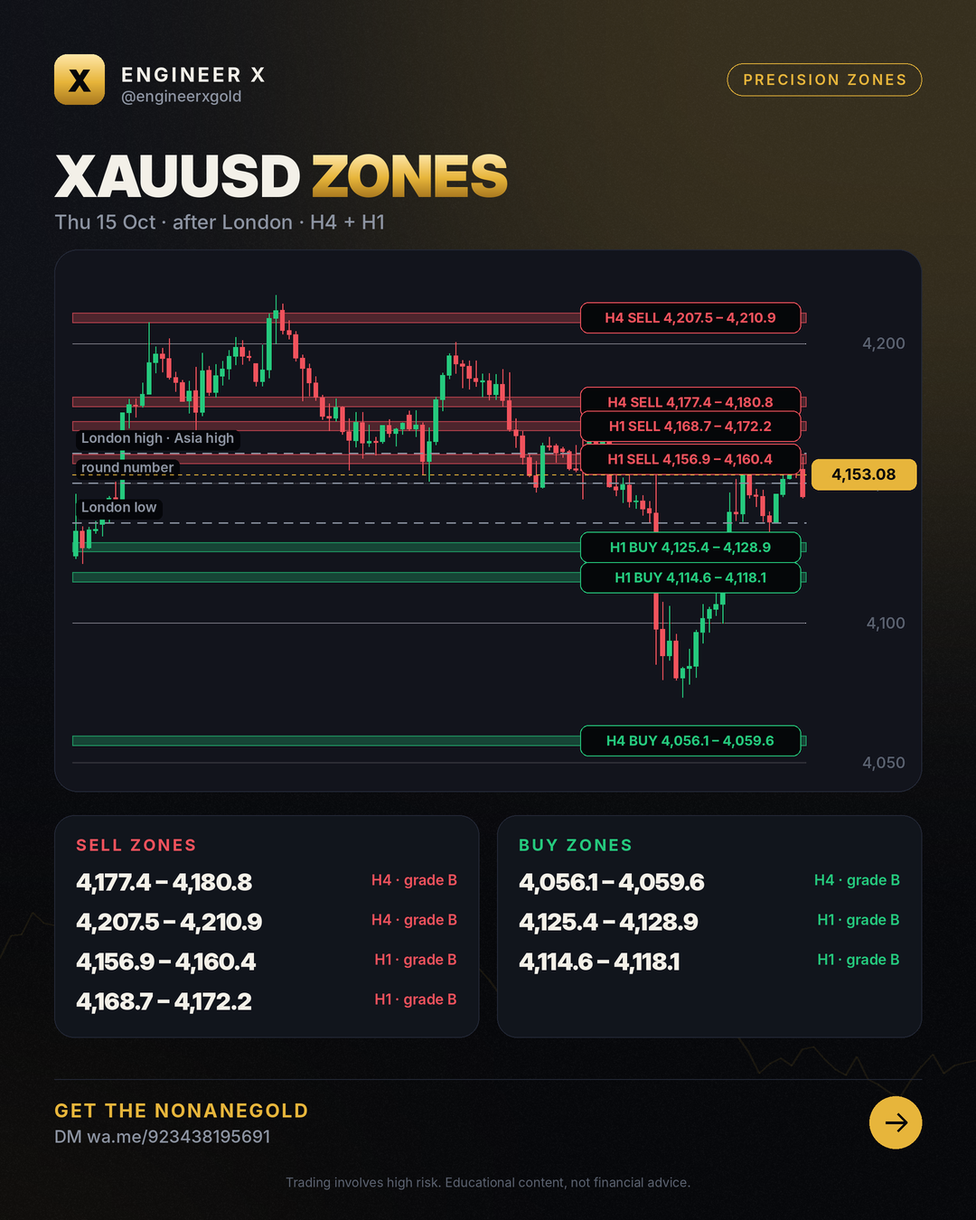
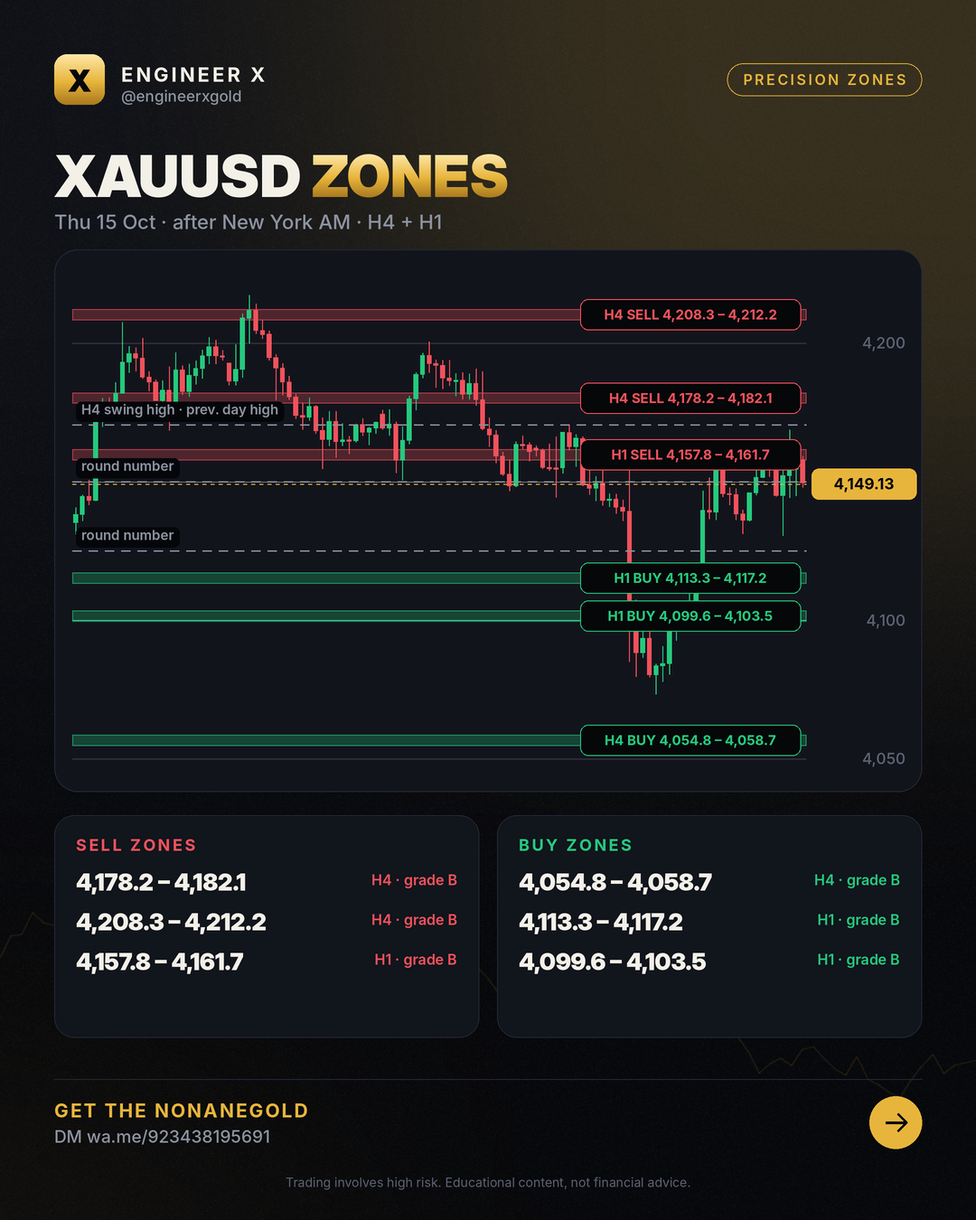
zones 2026-10-15 Thu 15 Oct · after New York AM · H4 + H1

diff --git a/zones/2026-10-15/index.html b/zones/2026-10-15/index.html
@@ -4,7 +4,7 @@
 <meta charset="utf-8">
 <meta name="viewport" content="width=device-width,initial-scale=1">
 <title>Gold Price Today – 15 Oct 2026 (H4 + H1)</title>
-<meta name="description" content="XAUUSD buy and sell zones for 2026-10-15: narrow H4 and H1 bands with invalidation levels, updated after the Asian, London and New York sessions. Price 4,153.08.">
+<meta name="description" content="XAUUSD buy and sell zones for 2026-10-15: narrow H4 and H1 bands with invalidation levels, updated after the Asian, London and New York sessions. Price 4,149.13.">
 <meta name="robots" content="index,follow,max-image-preview:large,max-snippet:-1,max-video-preview:-1">
 <meta name="author" content="Engr. M Ahmad Mehmood">
 <link rel="canonical" href="https://engineerxgold.github.io/zones/2026-10-15/">
@@ -12,7 +12,7 @@
 <link rel="apple-touch-icon" href="../../img/logo.png">
 <meta property="og:site_name" content="Engineer X">
 <meta property="og:title" content="Gold Price Today – 15 Oct 2026 (H4 + H1)">
-<meta property="og:description" content="XAUUSD buy and sell zones for 2026-10-15: narrow H4 and H1 bands with invalidation levels, updated after the Asian, London and New York sessions. Price 4,153.08.">
+<meta property="og:description" content="XAUUSD buy and sell zones for 2026-10-15: narrow H4 and H1 bands with invalidation levels, updated after the Asian, London and New York sessions. Price 4,149.13.">
 <meta property="og:type" content="article">
 <meta property="og:url" content="https://engineerxgold.github.io/zones/2026-10-15/">
 <meta property="og:image" content="https://engineerxgold.github.io/zones/img/2026-10-15.png">
@@ -22,7 +22,7 @@
 <meta property="og:locale" content="en_US">
 <meta name="twitter:card" content="summary_large_image">
 <meta name="twitter:title" content="Gold Price Today – 15 Oct 2026 (H4 + H1)">
-<meta name="twitter:description" content="XAUUSD buy and sell zones for 2026-10-15: narrow H4 and H1 bands with invalidation levels, updated after the Asian, London and New York sessions. Price 4,153.08.">
+<meta name="twitter:description" content="XAUUSD buy and sell zones for 2026-10-15: narrow H4 and H1 bands with invalidation levels, updated after the Asian, London and New York sessions. Price 4,149.13.">
 <meta name="twitter:image" content="https://engineerxgold.github.io/zones/img/2026-10-15.png">
 <meta name="twitter:image:alt" content="Gold Price Today – 15 Oct 2026 (H4 + H1)">
 
@@ -32,7 +32,7 @@
 <link rel="preconnect" href="https://fonts.googleapis.com">
 <link rel="preconnect" href="https://fonts.gstatic.com" crossorigin>
 <link href="https://fonts.googleapis.com/css2?family=Inter:wght@400;500;600;800;900&display=swap" rel="stylesheet">
-<script type="application/ld+json">{"@context": "https://schema.org", "@type": "Organization", "@id": "https://engineerxgold.github.io/#organization", "name": "Engineer X", "url": "https://engineerxgold.github.io/", "logo": {"@type": "ImageObject", "url": "https://engineerxgold.github.io/img/logo.png", "width": 512, "height": 512}, "sameAs": ["https://t.me/engineerxgold"]}</script><script type="application/ld+json">{"@context": "https://schema.org", "@type": "Article", "headline": "Gold Price Today – 15 Oct 2026 (H4 + H1)", "datePublished": "2026-10-15T08:00:00+05:00", "dateModified": "2026-10-15T17:25:45+05:00", "author": {"@type": "Person", "@id": "https://engineerxgold.github.io/about/#author", "name": "Engr. M Ahmad Mehmood", "url": "https://engineerxgold.github.io/about/", "jobTitle": "MQL5 Expert Advisor developer and gold market analyst", "worksFor": {"@id": "https://engineerxgold.github.io/#organization"}}, "publisher": {"@id": "https://engineerxgold.github.io/#organization"}, "image": "https://engineerxgold.github.io/zones/img/2026-10-15.png", "mainEntityOfPage": "https://engineerxgold.github.io/zones/2026-10-15/"}</script>
+<script type="application/ld+json">{"@context": "https://schema.org", "@type": "Organization", "@id": "https://engineerxgold.github.io/#organization", "name": "Engineer X", "url": "https://engineerxgold.github.io/", "logo": {"@type": "ImageObject", "url": "https://engineerxgold.github.io/img/logo.png", "width": 512, "height": 512}, "sameAs": ["https://t.me/engineerxgold"]}</script><script type="application/ld+json">{"@context": "https://schema.org", "@type": "Article", "headline": "Gold Price Today – 15 Oct 2026 (H4 + H1)", "datePublished": "2026-10-15T08:00:00+05:00", "dateModified": "2026-10-15T21:02:53+05:00", "author": {"@type": "Person", "@id": "https://engineerxgold.github.io/about/#author", "name": "Engr. M Ahmad Mehmood", "url": "https://engineerxgold.github.io/about/", "jobTitle": "MQL5 Expert Advisor developer and gold market analyst", "worksFor": {"@id": "https://engineerxgold.github.io/#organization"}}, "publisher": {"@id": "https://engineerxgold.github.io/#organization"}, "image": "https://engineerxgold.github.io/zones/img/2026-10-15.png", "mainEntityOfPage": "https://engineerxgold.github.io/zones/2026-10-15/"}</script>
 
 <style>
 :root{--gold:#E7B53B;--gold-hi:#FFE7A8;--bg:#07080B;--bg2:#0E1016;--panel:#12151D;--line:#232836;--green:#25C97D;--red:#F0525C;--text:#F3F0E8;--muted:#8C93A1}
@@ -101,7 +101,7 @@ footer .fl a{color:var(--muted);margin-right:16px}
 <div class="wrap">
 <nav><a class="logo" href="../../"><b>X</b>Engineer X</a>
 <div class="links"><a href="../../zones/">Daily Zones</a><a href="../../blog/">Learn</a><a href="../../ea/">Gold EA</a><a href="../../about/">About</a><a class="cta" href="https://wa.me/923438195691">Get the EA</a></div></nav>
-<article><p class="crumbs"><a href="../../">Home</a> › <a href="../">Zones</a> › 2026-10-15</p><h1>Gold Price Today – 15 Oct 2026 (H4 + H1)</h1><p class="byline">Thu 15 Oct · after London · H4 + H1 · by Engr. M Ahmad Mehmood</p><img src="../img/2026-10-15.png" alt="XAUUSD zone map 2026-10-15" width="1080" height="1350" loading="eager"><h2>Zones</h2><div style="overflow-x:auto"><table style="width:100%;border-collapse:collapse;font-size:15px"><tr><th align=left>Zone</th><th align=left>Price band</th><th>Grade</th><th align=left>Invalid</th><th align=left>Why</th></tr><tr><td>H4 sell</td><td><b>4,177.37 – 4,180.84</b></td><td>B</td><td>above 4,187.77</td><td>beyond previous day high + H4 swing high (stops rest there; sweeps often end here)</td></tr><tr><td>H4 sell</td><td><b>4,207.46 – 4,210.93</b></td><td>B</td><td>above 4,217.86</td><td>beyond H4 swing high (stops rest there; sweeps often end here)</td></tr><tr><td>H1 sell</td><td><b>4,156.93 – 4,160.40</b></td><td>B</td><td>above 4,167.33</td><td>beyond round number (stops rest there; sweeps often end here)</td></tr><tr><td>H1 sell</td><td><b>4,168.71 – 4,172.18</b></td><td>B</td><td>above 4,179.11</td><td>beyond Asia high + London high (stops rest there; sweeps often end here)</td></tr><tr><td>H1 buy</td><td><b>4,125.38 – 4,128.85</b></td><td>B</td><td>below 4,118.45</td><td>beyond London low (stops rest there; sweeps often end here)</td></tr><tr><td>H1 buy</td><td><b>4,114.60 – 4,118.07</b></td><td>B</td><td>below 4,107.67</td><td>beyond round number (stops rest there; sweeps often end here)</td></tr><tr><td>H4 buy</td><td><b>4,056.08 – 4,059.55</b></td><td>B</td><td>below 4,049.15</td><td>beyond H4 swing low + previous day low + yesterday&#x27;s New York low (stops rest there; sweeps often end here)</td></tr></table></div><h2>How to read this map</h2><p>Bands are where price is expected to react; they are not entries. An hourly close beyond the invalidation price ends the zone. Obvious highs and lows (listed as liquidity) are often swept first, so our zones sit just beyond them.</p><div class="ctabox"><h3>🤖 Trade the zones with the NonaneGold</h3><p>Free signals group access + setup help Message us and we will help you set it up.</p><div class="btns"><a class="btn gold" href="https://wa.me/923438195691">Get the EA on Telegram</a><a class="btn ghost" href="../../ea/">About the EA</a></div></div></article>
+<article><p class="crumbs"><a href="../../">Home</a> › <a href="../">Zones</a> › 2026-10-15</p><h1>Gold Price Today – 15 Oct 2026 (H4 + H1)</h1><p class="byline">Thu 15 Oct · after New York AM · H4 + H1 · by Engr. M Ahmad Mehmood</p><img src="../img/2026-10-15.png" alt="XAUUSD zone map 2026-10-15" width="1080" height="1350" loading="eager"><h2>Zones</h2><div style="overflow-x:auto"><table style="width:100%;border-collapse:collapse;font-size:15px"><tr><th align=left>Zone</th><th align=left>Price band</th><th>Grade</th><th align=left>Invalid</th><th align=left>Why</th></tr><tr><td>H4 sell</td><td><b>4,178.24 – 4,182.14</b></td><td>B</td><td>above 4,189.93</td><td>beyond H4 swing high + previous day high (stops rest there; sweeps often end here)</td></tr><tr><td>H4 sell</td><td><b>4,208.33 – 4,212.23</b></td><td>B</td><td>above 4,220.02</td><td>beyond H4 swing high (stops rest there; sweeps often end here)</td></tr><tr><td>H1 sell</td><td><b>4,157.80 – 4,161.70</b></td><td>B</td><td>above 4,169.49</td><td>beyond round number (stops rest there; sweeps often end here)</td></tr><tr><td>H1 buy</td><td><b>4,113.30 – 4,117.20</b></td><td>B</td><td>below 4,105.51</td><td>beyond round number (stops rest there; sweeps often end here)</td></tr><tr><td>H1 buy</td><td><b>4,099.59 – 4,103.49</b></td><td>B</td><td>below 4,091.80</td><td>beyond Asia low (stops rest there; sweeps often end here)</td></tr><tr><td>H4 buy</td><td><b>4,054.78 – 4,058.68</b></td><td>B</td><td>below 4,046.99</td><td>beyond H4 swing low + yesterday&#x27;s New York low + previous day low (stops rest there; sweeps often end here)</td></tr></table></div><h2>How to read this map</h2><p>Bands are where price is expected to react; they are not entries. An hourly close beyond the invalidation price ends the zone. Obvious highs and lows (listed as liquidity) are often swept first, so our zones sit just beyond them.</p><div class="ctabox"><h3>🤖 Trade the zones with the NonaneGold</h3><p>Free signals group access + setup help Message us and we will help you set it up.</p><div class="btns"><a class="btn gold" href="https://wa.me/923438195691">Get the EA on Telegram</a><a class="btn ghost" href="../../ea/">About the EA</a></div></div></article>
 <footer>
 <div class="warn"><b>Risk warning:</b> Trading gold, forex and CFDs carries a high risk of losing money and is not suitable for everyone. Past results do not guarantee future results. Everything on this site is educational and not financial advice. We are an introducing partner of our broker and may earn a commission on accounts opened through our link.</div>
 <p class="fl" style="margin-top:18px"><a href="../../about/">About &amp; methodology</a><a href="../../privacy.html">Privacy</a><a href="../../terms.html">Terms &amp; risk disclosure</a><a href="../../feed.xml">RSS</a><a href="https://t.me/engineerxgold">Telegram</a></p>

diff --git a/zones/index.html b/zones/index.html
@@ -4,7 +4,7 @@
 <meta charset="utf-8">
 <meta name="viewport" content="width=device-width,initial-scale=1">
 <title>XAUUSD Zones Today – Buy &amp; Sell Zones (H4, H1) | Engineer X</title>
-<meta name="description" content="XAUUSD buy and sell zones for 2026-10-15: narrow H4 and H1 bands with invalidation levels, updated after the Asian, London and New York sessions. Price 4,153.08.">
+<meta name="description" content="XAUUSD buy and sell zones for 2026-10-15: narrow H4 and H1 bands with invalidation levels, updated after the Asian, London and New York sessions. Price 4,149.13.">
 <meta name="robots" content="index,follow,max-image-preview:large,max-snippet:-1,max-video-preview:-1">
 <meta name="author" content="Engr. M Ahmad Mehmood">
 <link rel="canonical" href="https://engineerxgold.github.io/zones/">
@@ -12,7 +12,7 @@
 <link rel="apple-touch-icon" href="../img/logo.png">
 <meta property="og:site_name" content="Engineer X">
 <meta property="og:title" content="XAUUSD Zones Today – Buy &amp; Sell Zones (H4, H1) | Engineer X">
-<meta property="og:description" content="XAUUSD buy and sell zones for 2026-10-15: narrow H4 and H1 bands with invalidation levels, updated after the Asian, London and New York sessions. Price 4,153.08.">
+<meta property="og:description" content="XAUUSD buy and sell zones for 2026-10-15: narrow H4 and H1 bands with invalidation levels, updated after the Asian, London and New York sessions. Price 4,149.13.">
 <meta property="og:type" content="website">
 <meta property="og:url" content="https://engineerxgold.github.io/zones/">
 <meta property="og:image" content="https://engineerxgold.github.io/zones/img/2026-10-15.png">
@@ -22,7 +22,7 @@
 <meta property="og:locale" content="en_US">
 <meta name="twitter:card" content="summary_large_image">
 <meta name="twitter:title" content="XAUUSD Zones Today – Buy &amp; Sell Zones (H4, H1) | Engineer X">
-<meta name="twitter:description" content="XAUUSD buy and sell zones for 2026-10-15: narrow H4 and H1 bands with invalidation levels, updated after the Asian, London and New York sessions. Price 4,153.08.">
+<meta name="twitter:description" content="XAUUSD buy and sell zones for 2026-10-15: narrow H4 and H1 bands with invalidation levels, updated after the Asian, London and New York sessions. Price 4,149.13.">
 <meta name="twitter:image" content="https://engineerxgold.github.io/zones/img/2026-10-15.png">
 <meta name="twitter:image:alt" content="XAUUSD Zones Today – Buy &amp; Sell Zones (H4, H1) | Engineer X">
 
@@ -101,7 +101,7 @@ footer .fl a{color:var(--muted);margin-right:16px}
 <div class="wrap">
 <nav><a class="logo" href="../"><b>X</b>Engineer X</a>
 <div class="links"><a href="../zones/">Daily Zones</a><a href="../blog/">Learn</a><a href="../ea/">Gold EA</a><a href="../about/">About</a><a class="cta" href="https://wa.me/923438195691">Get the EA</a></div></nav>
-<section class="hero"><span class="chip">Updated Thu 15 Oct · after London · H4 + H1</span><h1>XAUUSD <span class="gold">precision zones</span></h1><p>XAUUSD buy and sell zones for 2026-10-15: narrow H4 and H1 bands with invalidation levels, updated after the Asian, London and New York sessions. Price 4,153.08.</p></section><img src="img/2026-10-15.png" alt="Latest XAUUSD zone map" width="1080" height="1350"><section><h2>Current zones</h2><div style="overflow-x:auto"><table style="width:100%;border-collapse:collapse;font-size:15px"><tr><th align=left>Zone</th><th align=left>Price band</th><th>Grade</th><th align=left>Invalid</th><th align=left>Why</th></tr><tr><td>H4 sell</td><td><b>4,177.37 – 4,180.84</b></td><td>B</td><td>above 4,187.77</td><td>beyond previous day high + H4 swing high (stops rest there; sweeps often end here)</td></tr><tr><td>H4 sell</td><td><b>4,207.46 – 4,210.93</b></td><td>B</td><td>above 4,217.86</td><td>beyond H4 swing high (stops rest there; sweeps often end here)</td></tr><tr><td>H1 sell</td><td><b>4,156.93 – 4,160.40</b></td><td>B</td><td>above 4,167.33</td><td>beyond round number (stops rest there; sweeps often end here)</td></tr><tr><td>H1 sell</td><td><b>4,168.71 – 4,172.18</b></td><td>B</td><td>above 4,179.11</td><td>beyond Asia high + London high (stops rest there; sweeps often end here)</td></tr><tr><td>H1 buy</td><td><b>4,125.38 – 4,128.85</b></td><td>B</td><td>below 4,118.45</td><td>beyond London low (stops rest there; sweeps often end here)</td></tr><tr><td>H1 buy</td><td><b>4,114.60 – 4,118.07</b></td><td>B</td><td>below 4,107.67</td><td>beyond round number (stops rest there; sweeps often end here)</td></tr><tr><td>H4 buy</td><td><b>4,056.08 – 4,059.55</b></td><td>B</td><td>below 4,049.15</td><td>beyond H4 swing low + previous day low + yesterday&#x27;s New York low (stops rest there; sweeps often end here)</td></tr></table></div></section><section><h2>Honest scorecard</h2><div class="grid"><div class="card"><div class="n">60</div><p>zones published (30 days)</p></div><div class="card"><div class="n">17</div><p>held (moved 1 hourly ATR away)</p></div><div class="card"><div class="n">2</div><p>broke (hourly close beyond invalidation)</p></div><div class="card"><div class="n">89%</div><p>hold rate of decided zones</p></div></div></section><div class="ctabox"><h3>🤖 Trade the zones with the NonaneGold</h3><p>Free signals group access + setup help Message us and we will help you set it up.</p><div class="btns"><a class="btn gold" href="https://wa.me/923438195691">Get the EA on Telegram</a><a class="btn ghost" href="../ea/">About the EA</a></div></div><section><h2>Archive</h2><div class="grid posts"><a class="card" href="2026-10-15/"><span class="date">2026-10-15</span><h3>XAUUSD zones 2026-10-15</h3></a><a class="card" href="2026-10-14/"><span class="date">2026-10-14</span><h3>XAUUSD zones 2026-10-14</h3></a><a class="card" href="2026-10-13/"><span class="date">2026-10-13</span><h3>XAUUSD zones 2026-10-13</h3></a></div></section>
+<section class="hero"><span class="chip">Updated Thu 15 Oct · after New York AM · H4 + H1</span><h1>XAUUSD <span class="gold">precision zones</span></h1><p>XAUUSD buy and sell zones for 2026-10-15: narrow H4 and H1 bands with invalidation levels, updated after the Asian, London and New York sessions. Price 4,149.13.</p></section><img src="img/2026-10-15.png" alt="Latest XAUUSD zone map" width="1080" height="1350"><section><h2>Current zones</h2><div style="overflow-x:auto"><table style="width:100%;border-collapse:collapse;font-size:15px"><tr><th align=left>Zone</th><th align=left>Price band</th><th>Grade</th><th align=left>Invalid</th><th align=left>Why</th></tr><tr><td>H4 sell</td><td><b>4,178.24 – 4,182.14</b></td><td>B</td><td>above 4,189.93</td><td>beyond H4 swing high + previous day high (stops rest there; sweeps often end here)</td></tr><tr><td>H4 sell</td><td><b>4,208.33 – 4,212.23</b></td><td>B</td><td>above 4,220.02</td><td>beyond H4 swing high (stops rest there; sweeps often end here)</td></tr><tr><td>H1 sell</td><td><b>4,157.80 – 4,161.70</b></td><td>B</td><td>above 4,169.49</td><td>beyond round number (stops rest there; sweeps often end here)</td></tr><tr><td>H1 buy</td><td><b>4,113.30 – 4,117.20</b></td><td>B</td><td>below 4,105.51</td><td>beyond round number (stops rest there; sweeps often end here)</td></tr><tr><td>H1 buy</td><td><b>4,099.59 – 4,103.49</b></td><td>B</td><td>below 4,091.80</td><td>beyond Asia low (stops rest there; sweeps often end here)</td></tr><tr><td>H4 buy</td><td><b>4,054.78 – 4,058.68</b></td><td>B</td><td>below 4,046.99</td><td>beyond H4 swing low + yesterday&#x27;s New York low + previous day low (stops rest there; sweeps often end here)</td></tr></table></div></section><section><h2>Honest scorecard</h2><div class="grid"><div class="card"><div class="n">67</div><p>zones published (30 days)</p></div><div class="card"><div class="n">23</div><p>held (moved 1 hourly ATR away)</p></div><div class="card"><div class="n">2</div><p>broke (hourly close beyond invalidation)</p></div><div class="card"><div class="n">92%</div><p>hold rate of decided zones</p></div></div></section><div class="ctabox"><h3>🤖 Trade the zones with the NonaneGold</h3><p>Free signals group access + setup help Message us and we will help you set it up.</p><div class="btns"><a class="btn gold" href="https://wa.me/923438195691">Get the EA on Telegram</a><a class="btn ghost" href="../ea/">About the EA</a></div></div><section><h2>Archive</h2><div class="grid posts"><a class="card" href="2026-10-15/"><span class="date">2026-10-15</span><h3>XAUUSD zones 2026-10-15</h3></a><a class="card" href="2026-10-14/"><span class="date">2026-10-14</span><h3>XAUUSD zones 2026-10-14</h3></a><a class="card" href="2026-10-13/"><span class="date">2026-10-13</span><h3>XAUUSD zones 2026-10-13</h3></a></div></section>
 <footer>
 <div class="warn"><b>Risk warning:</b> Trading gold, forex and CFDs carries a high risk of losing money and is not suitable for everyone. Past results do not guarantee future results. Everything on this site is educational and not financial advice. We are an introducing partner of our broker and may earn a commission on accounts opened through our link.</div>
 <p class="fl" style="margin-top:18px"><a href="../about/">About &amp; methodology</a><a href="../privacy.html">Privacy</a><a href="../terms.html">Terms &amp; risk disclosure</a><a href="../feed.xml">RSS</a><a href="https://t.me/engineerxgold">Telegram</a></p>

diff --git a/index.html b/index.html
@@ -101,7 +101,7 @@ footer .fl a{color:var(--muted);margin-right:16px}
 <div class="wrap">
 <nav><a class="logo" href="./"><b>X</b>Engineer X</a>
 <div class="links"><a href="./zones/">Daily Zones</a><a href="./blog/">Learn</a><a href="./ea/">Gold EA</a><a href="./about/">About</a><a class="cta" href="https://wa.me/923438195691">Get the EA</a></div></nav>
-<section class="hero"><span class="chip">XAUUSD · H4 + H1 · every session</span><h1>Gold <span class="gold">precision zones</span>, updated after every session</h1><p>Narrow buy and sell zones with clear invalidation, a scorecard of every result, and the NonaneGold for traders who want it automated.</p><div class="btns"><a class="btn gold" href="zones/">See today's zones</a><a class="btn ghost" href="https://wa.me/923438195691">Get the EA</a></div></section><section><h2>Latest map Thu 15 Oct · after London · H4 + H1</h2><img src="zones/img/2026-10-15.png" alt="Latest XAUUSD zones" width="1080" height="1350"></section><div class="ctabox"><h3>🤖 Trade the zones with the NonaneGold</h3><p>Free signals group access + setup help Message us and we will help you set it up.</p><div class="btns"><a class="btn gold" href="https://wa.me/923438195691">Get the EA on Telegram</a><a class="btn ghost" href="ea/">About the EA</a></div></div><section><h2>Learn</h2><div class="grid posts"><a class="card" href="blog/gold-price-today-navigating-h4-downtrend-key-zones/"><span class="date">2026-10-15</span><h3>Gold Price Today: Navigating H4 Downtrend &amp; Key Zones</h3></a><a class="card" href="blog/gold-supply-and-demand-zones-h4-h1-trading-map/"><span class="date">2026-10-14</span><h3>Gold Supply and Demand Zones: H4 &amp; H1 Trading Map</h3></a><a class="card" href="blog/gold-trading-strategy-for-zones-and-liquidity-in-xauusd/"><span class="date">2026-10-13</span><h3>Gold trading strategy for zones and liquidity in XAUUSD</h3></a><a class="card" href="blog/stop-loss-ke-baghair-trading-ticket-bina-safar/"><span class="date">2026-10-07</span><h3>Stop loss ke baghair trading = ticket bina safar</h3></a><a class="card" href="blog/gold-ke-3-sab-se-active-sessions/"><span class="date">2026-10-07</span><h3>Gold ke 3 sab se active sessions</h3></a><a class="card" href="blog/the-math-of-recovery/"><span class="date">2026-10-08</span><h3>The math of recovery</h3></a></div></section><section><h2>FAQ</h2><details><summary>What is a precision zone?</summary><p>A narrow price band (about a quarter of the hourly range) where gold started a strong move or where a sweep of obvious liquidity usually ends. Each zone has an invalidation price.</p></details><details><summary>How often are the zones updated?</summary><p>A daily plan at the Asian open, then after the Asian, London and New York sessions.</p></details><details><summary>Are these trade signals?</summary><p>No. Zones are areas to watch. Wait for your own confirmation and manage risk.</p></details><details><summary>How do I get the Gold EA?</summary><p>Message us on Telegram or WhatsApp; we answer and help with the setup.</p></details></section>
+<section class="hero"><span class="chip">XAUUSD · H4 + H1 · every session</span><h1>Gold <span class="gold">precision zones</span>, updated after every session</h1><p>Narrow buy and sell zones with clear invalidation, a scorecard of every result, and the NonaneGold for traders who want it automated.</p><div class="btns"><a class="btn gold" href="zones/">See today's zones</a><a class="btn ghost" href="https://wa.me/923438195691">Get the EA</a></div></section><section><h2>Latest map Thu 15 Oct · after New York AM · H4 + H1</h2><img src="zones/img/2026-10-15.png" alt="Latest XAUUSD zones" width="1080" height="1350"></section><div class="ctabox"><h3>🤖 Trade the zones with the NonaneGold</h3><p>Free signals group access + setup help Message us and we will help you set it up.</p><div class="btns"><a class="btn gold" href="https://wa.me/923438195691">Get the EA on Telegram</a><a class="btn ghost" href="ea/">About the EA</a></div></div><section><h2>Learn</h2><div class="grid posts"><a class="card" href="blog/gold-price-today-navigating-h4-downtrend-key-zones/"><span class="date">2026-10-15</span><h3>Gold Price Today: Navigating H4 Downtrend &amp; Key Zones</h3></a><a class="card" href="blog/gold-supply-and-demand-zones-h4-h1-trading-map/"><span class="date">2026-10-14</span><h3>Gold Supply and Demand Zones: H4 &amp; H1 Trading Map</h3></a><a class="card" href="blog/gold-trading-strategy-for-zones-and-liquidity-in-xauusd/"><span class="date">2026-10-13</span><h3>Gold trading strategy for zones and liquidity in XAUUSD</h3></a><a class="card" href="blog/stop-loss-ke-baghair-trading-ticket-bina-safar/"><span class="date">2026-10-07</span><h3>Stop loss ke baghair trading = ticket bina safar</h3></a><a class="card" href="blog/gold-ke-3-sab-se-active-sessions/"><span class="date">2026-10-07</span><h3>Gold ke 3 sab se active sessions</h3></a><a class="card" href="blog/the-math-of-recovery/"><span class="date">2026-10-08</span><h3>The math of recovery</h3></a></div></section><section><h2>FAQ</h2><details><summary>What is a precision zone?</summary><p>A narrow price band (about a quarter of the hourly range) where gold started a strong move or where a sweep of obvious liquidity usually ends. Each zone has an invalidation price.</p></details><details><summary>How often are the zones updated?</summary><p>A daily plan at the Asian open, then after the Asian, London and New York sessions.</p></details><details><summary>Are these trade signals?</summary><p>No. Zones are areas to watch. Wait for your own confirmation and manage risk.</p></details><details><summary>How do I get the Gold EA?</summary><p>Message us on Telegram or WhatsApp; we answer and help with the setup.</p></details></section>
 <footer>
 <div class="warn"><b>Risk warning:</b> Trading gold, forex and CFDs carries a high risk of losing money and is not suitable for everyone. Past results do not guarantee future results. Everything on this site is educational and not financial advice. We are an introducing partner of our broker and may earn a commission on accounts opened through our link.</div>
 <p class="fl" style="margin-top:18px"><a href="./about/">About &amp; methodology</a><a href="./privacy.html">Privacy</a><a href="./terms.html">Terms &amp; risk disclosure</a><a href="./feed.xml">RSS</a><a href="https://t.me/engineerxgold">Telegram</a></p>
